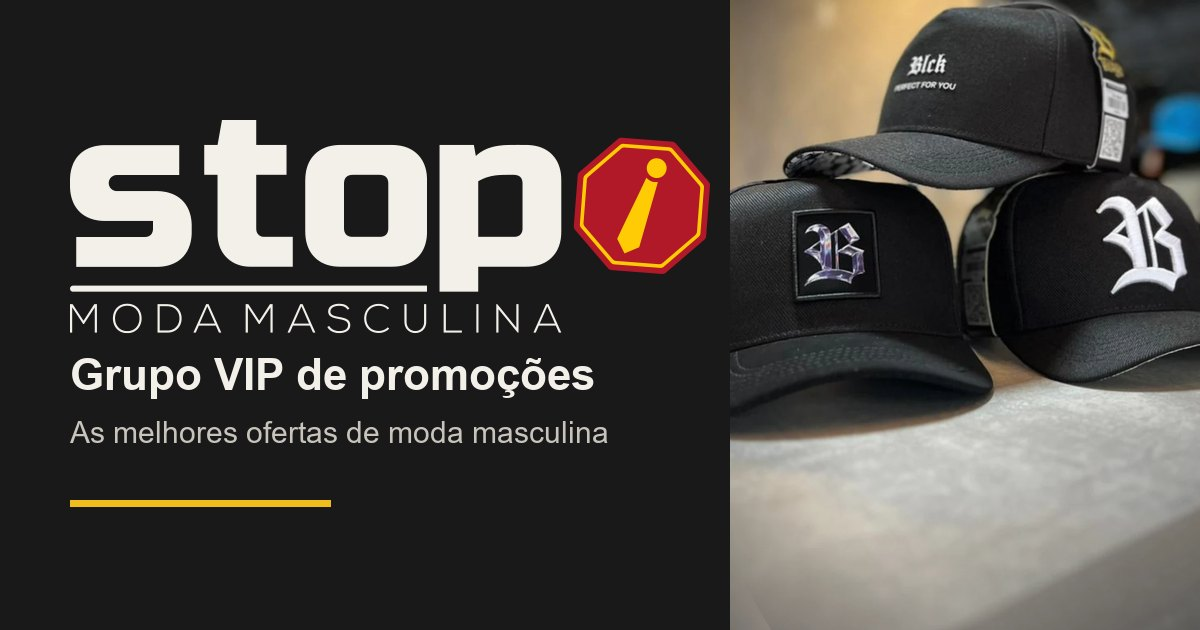
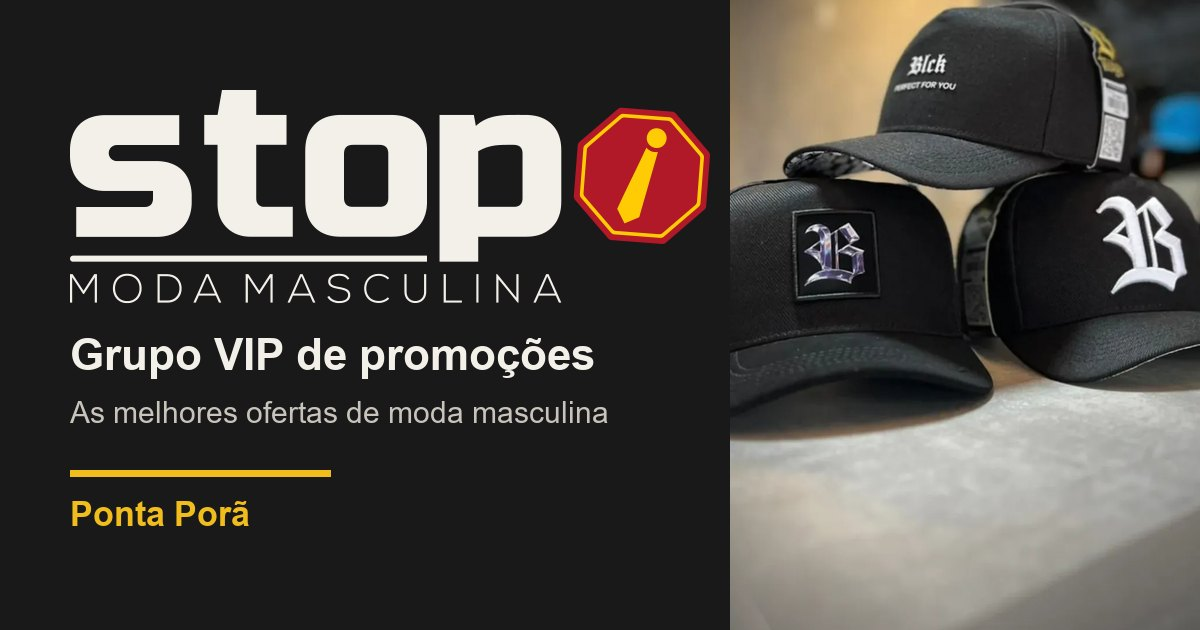
Deixa claro que a página é só para o público de Ponta Porã
Cidade no topo, no texto principal, nas faixas de alerta, no bloco vermelho
("Grupo exclusivo para o público de Ponta Porã."), no rodapé, no título,
na descrição, nos dados estruturados e na imagem de compartilhamento.

Changed region(s): [[0.0308, 0.1206, 0.6167, 0.8444]]

diff --git a/index.html b/index.html
@@ -3,15 +3,15 @@
 <head>
   <meta charset="utf-8">
   <meta name="viewport" content="width=device-width, initial-scale=1">
-  <title>Stop Moda Masculina | Grupo VIP de promoções</title>
-  <meta name="description" content="Entre no grupo VIP da Stop Moda Masculina e acompanhe as melhores promoções de moda masculina.">
+  <title>Stop Moda Masculina Ponta Porã | Grupo VIP de promoções</title>
+  <meta name="description" content="Grupo VIP da Stop Moda Masculina para o público de Ponta Porã. Entre e acompanhe as melhores promoções de moda masculina.">
   <meta name="theme-color" content="#19191a">
 
   <meta property="og:type" content="website">
   <meta property="og:locale" content="pt_BR">
   <meta property="og:site_name" content="Stop Moda Masculina">
-  <meta property="og:title" content="Stop Moda Masculina | Grupo VIP de promoções">
-  <meta property="og:description" content="Pare tudo. As melhores promoções de moda masculina estão no nosso grupo VIP.">
+  <meta property="og:title" content="Stop Moda Masculina Ponta Porã | Grupo VIP de promoções">
+  <meta property="og:description" content="Pare tudo. As melhores promoções de moda masculina de Ponta Porã estão no nosso grupo VIP.">
   <link rel="canonical" href="https://stop-moda.github.io/">
   <meta property="og:url" content="https://stop-moda.github.io/">
   <meta property="og:image" content="https://stop-moda.github.io/assets/og-image.jpg">
@@ -34,7 +34,14 @@
     "name": "Stop Moda Masculina",
     "url": "https://stop-moda.github.io/",
     "logo": "https://stop-moda.github.io/assets/apple-touch-icon.png",
-    "description": "Loja de moda masculina."
+    "description": "Loja de moda masculina em Ponta Porã.",
+    "address": {
+      "@type": "PostalAddress",
+      "addressLocality": "Ponta Porã",
+      "addressRegion": "MS",
+      "addressCountry": "BR"
+    },
+    "areaServed": "Ponta Porã"
   }
   </script>
 </head>
@@ -45,12 +52,16 @@
 
   <header class="top">
     <img class="brand" src="assets/logo.svg" alt="Stop Moda Masculina" width="171" height="58">
+    <p class="city">
+      <svg viewBox="0 0 24 24" aria-hidden="true" focusable="false"><path d="M12 22s7-6.2 7-12a7 7 0 1 0-14 0c0 5.8 7 12 7 12Z" fill="currentColor"/><circle cx="12" cy="10" r="2.6" fill="var(--bg)"/></svg>
+      Ponta Porã
+    </p>
   </header>
 
   <main>
     <section class="hero">
       <h1 class="hero__title"><span>Pare</span> <span>tudo.</span></h1>
-      <p class="hero__lead">As melhores promoções de moda masculina estão no nosso grupo VIP.</p>
+      <p class="hero__lead">As melhores promoções de moda masculina de Ponta Porã estão no nosso grupo VIP.</p>
       <a id="grupo" class="btn" href="#" data-group-link>Entrar no grupo VIP</a>
     </section>
 
@@ -74,8 +85,8 @@
     </section>
 
     <div class="tapes" aria-hidden="true">
-      <div class="tape tape--back"><div class="tape__track" data-words="Moda masculina|Grupo VIP|Pare tudo|Promoção"></div></div>
-      <div class="tape tape--front"><div class="tape__track" data-words="Promoção|Pare tudo|Grupo VIP|Moda masculina"></div></div>
+      <div class="tape tape--back"><div class="tape__track" data-words="Moda masculina|Ponta Porã|Grupo VIP|Pare tudo|Promoção"></div></div>
+      <div class="tape tape--front"><div class="tape__track" data-words="Promoção|Pare tudo|Ponta Porã|Grupo VIP|Moda masculina"></div></div>
     </div>
 
     <section class="vip" aria-labelledby="vip-title">
@@ -83,15 +94,16 @@
       <span class="vip__word" aria-hidden="true">VIP</span>
       <div class="vip__inner">
         <h2 id="vip-title"><span>Não fique</span> <span>de fora.</span></h2>
-        <p>Entre no grupo VIP e acompanhe as promoções de moda masculina da Stop.</p>
+        <p>Entre no grupo VIP e acompanhe as promoções de moda masculina da Stop em Ponta Porã.</p>
         <a class="btn btn--xl" href="#" data-group-link>Entrar no grupo VIP</a>
+        <p class="vip__note">Grupo exclusivo para o público de Ponta Porã.</p>
       </div>
     </section>
   </main>
 
   <footer class="foot">
     <img src="assets/logo.svg" alt="Stop Moda Masculina" width="104" height="35" loading="lazy">
-    <p>&copy; 2026 Stop Moda Masculina</p>
+    <p>Stop Moda Masculina em Ponta Porã. &copy; 2026</p>
   </footer>
   <div class="hazard" aria-hidden="true"></div>
 

diff --git a/style.css b/style.css
@@ -64,8 +64,27 @@ p { margin: 0; }
   max-width: var(--max);
   margin: 0 auto;
   padding: 1.25rem var(--gutter) 0;
+  display: flex;
+  align-items: center;
+  justify-content: space-between;
+  gap: 1rem;
 }
 .brand { width: 8.5rem; height: auto; }
+
+/* cidade, sempre visível no topo */
+.city {
+  display: inline-flex;
+  align-items: center;
+  gap: .4rem;
+  padding: .45rem .85rem .45rem .7rem;
+  border: 1px solid var(--line);
+  color: var(--text);
+  font-weight: 600;
+  font-size: 1rem;
+  line-height: 1;
+  white-space: nowrap;
+}
+.city svg { width: 1.1rem; height: 1.1rem; color: var(--yellow); flex-shrink: 0; }
 
 /* ---------- hero ---------- */
 .hero {
@@ -335,6 +354,14 @@ p { margin: 0; }
   line-height: 1.4;
 }
 
+.vip .vip__note {
+  margin: 1.5rem 0 0;
+  font-size: 1.125rem;
+  font-weight: 600;
+  line-height: 1.3;
+  text-wrap: balance;
+}
+
 /* ---------- rodapé ---------- */
 .foot {
   max-width: var(--max);
@@ -372,6 +399,7 @@ p { margin: 0; }
   :root { --gutter: 2.5rem; }
 
   .brand { width: 10.5rem; }
+  .city { font-size: 1.125rem; padding: .55rem 1rem .55rem .8rem; }
 
   .hero { padding-top: 3rem; padding-bottom: 4rem; text-align: center; }
   .hero__title {

diff --git a/README.md b/README.md
@@ -27,7 +27,8 @@ Abra http://localhost:5173.
 ## Pendências
 
 - **Link do grupo VIP:** colar em `script.js`, em `CONFIG.GROUP_LINK`. Enquanto estiver vazio, o botão mostra um aviso em vez de abrir algo. **Não divulgar a página antes disso.**
-- **Cidade, endereço, telefone e Instagram:** não foram informados, então não aparecem no site nem nos dados estruturados.
+- **Cidade:** a página é só para Ponta Porã e isso aparece no topo, no texto principal, nas faixas, no bloco vermelho, no rodapé e no título. Não mencionar a outra unidade da Stop nesta página.
+- **Endereço, telefone e Instagram:** não foram informados, então não aparecem no site nem nos dados estruturados.
 - **Domínio próprio:** ainda não definido.
 - **Textos:** conferir se o cliente aprova "Pare tudo.", "Não fique de fora." e as frases de apoio.
 - **Fotos:** a logo que vinha dentro da foto dos bonés foi cortada para não duplicar com a logo do topo.

diff --git a/BRIEFING.md b/BRIEFING.md
@@ -7,5 +7,6 @@
 - **Conversão principal:** entrar no grupo VIP (link ainda não existe).
 - **Marca:** logo "stop" com placa de pare. Cores do manual: grafite `#403f41`, amarelo `#ffcb04`, vermelho `#b11929`. Pedido do cliente: seguir preto, vermelho e amarelo, sem nada muito vibrante.
 - **Fotos recebidas:** bonés pretos (Blck), look com polo e calça, boné + camiseta TXC + jeans, look com camiseta, bermuda e chinelos.
-- **Cidade, endereço, telefone, Instagram:** não informados.
+- **Cidade:** Ponta Porã (MS). Esta página é só para a loja de Ponta Porã, para o público de lá. A Stop tem outra unidade em outra cidade, que não aparece nesta página.
+- **Endereço, telefone, Instagram:** não informados.
 - **Domínio próprio:** não informado.
